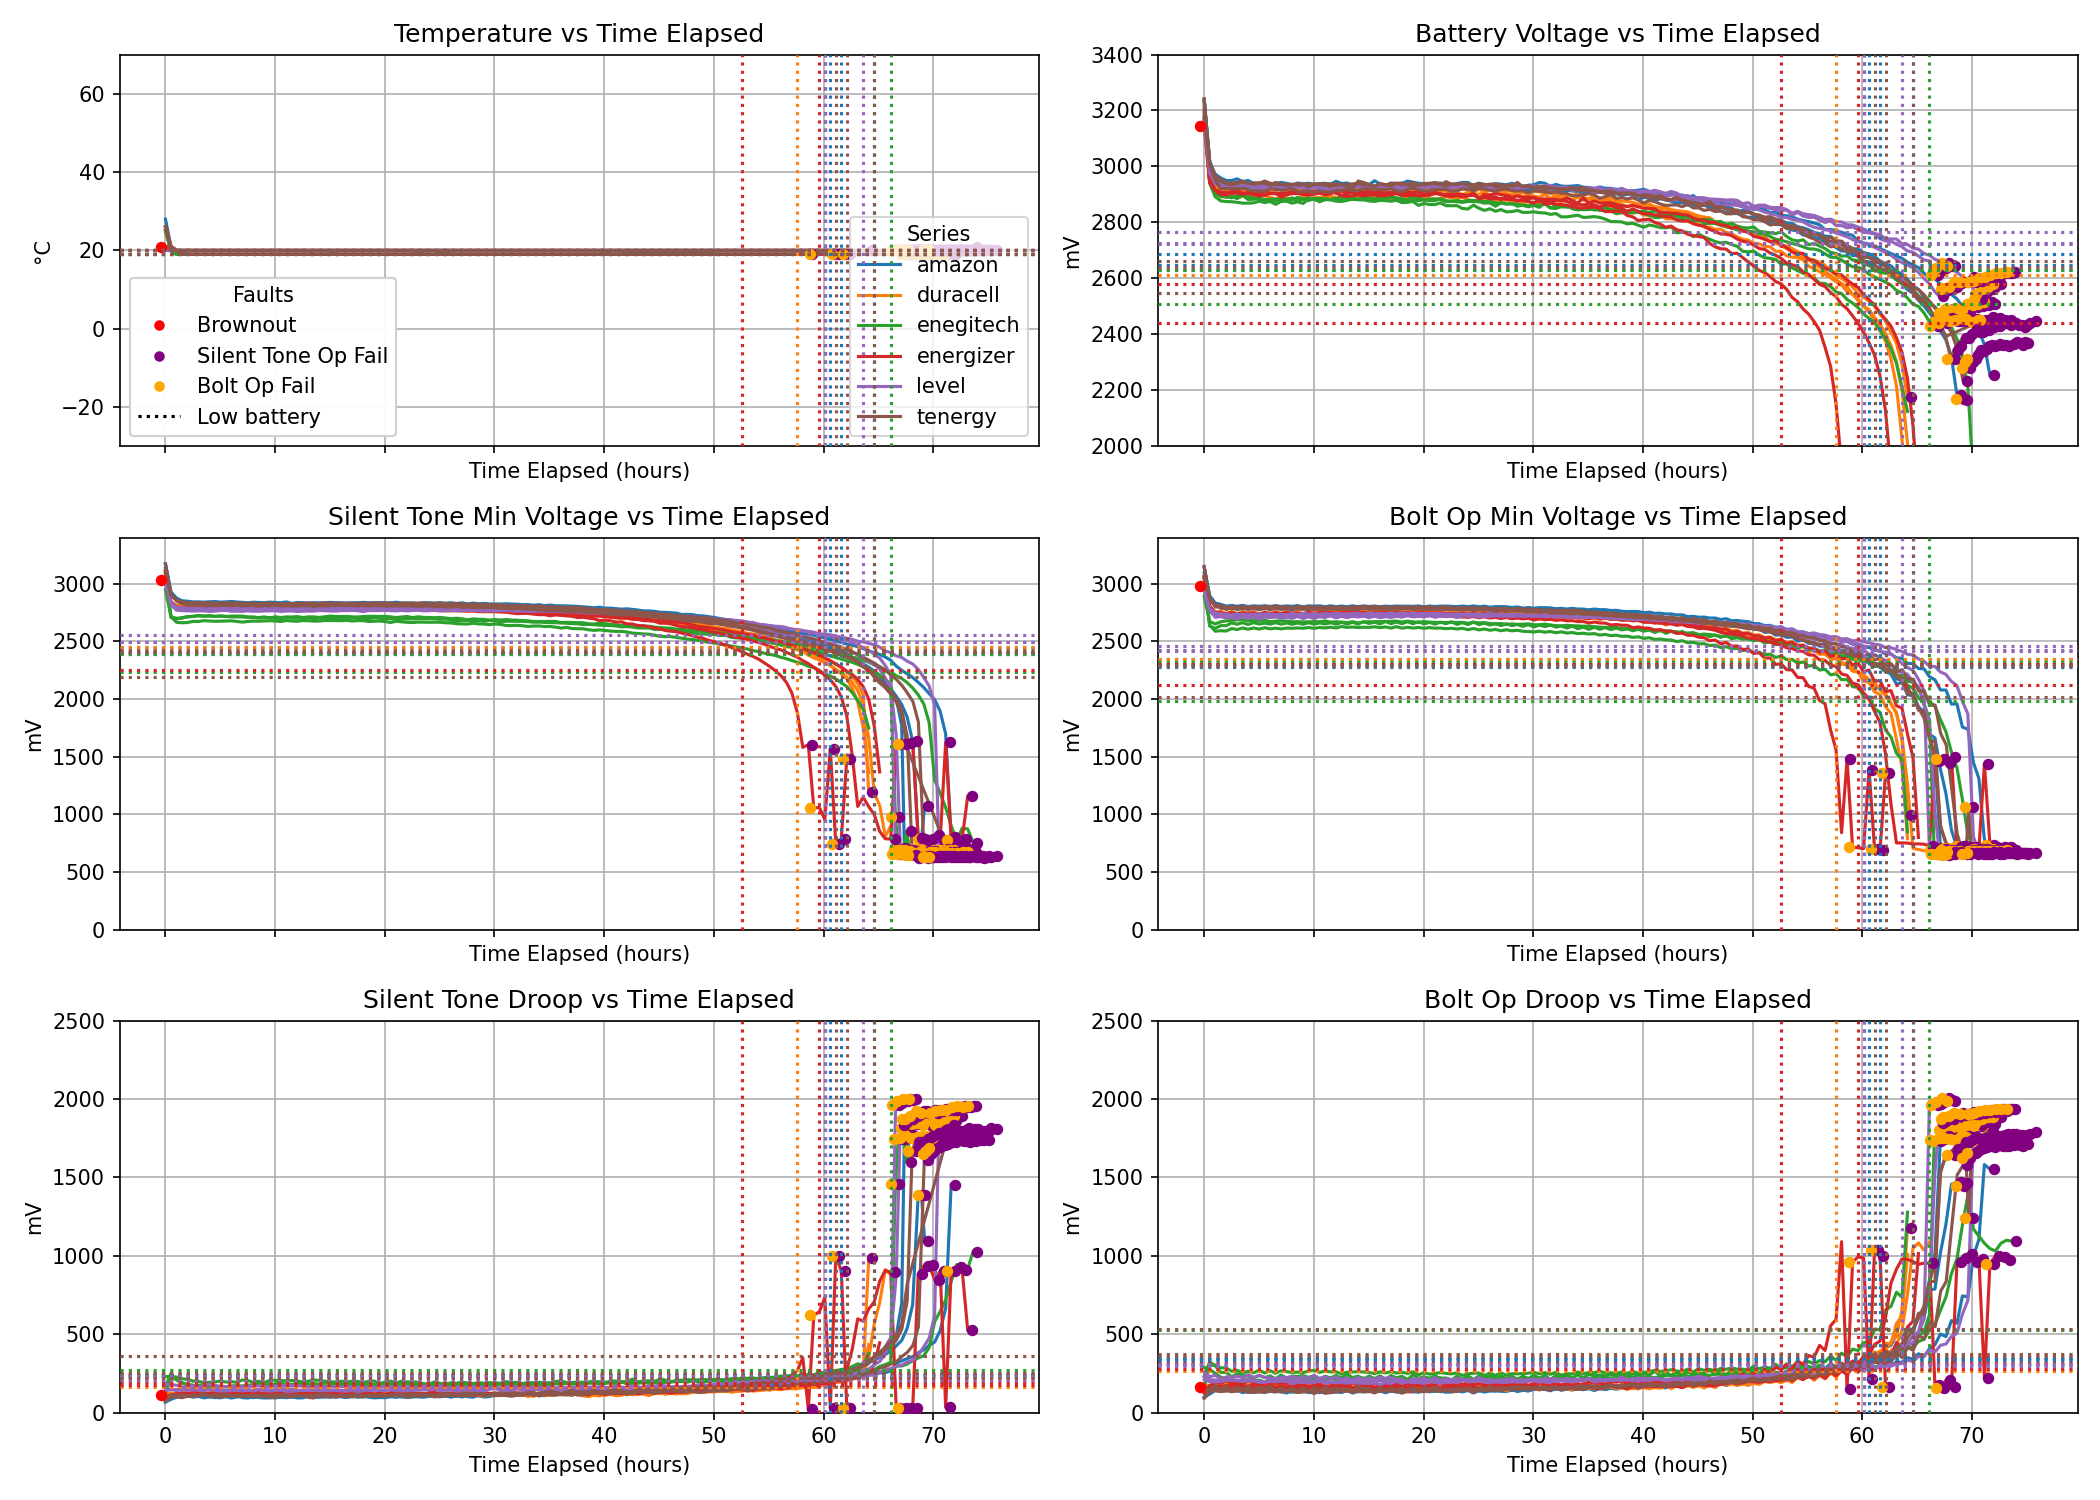
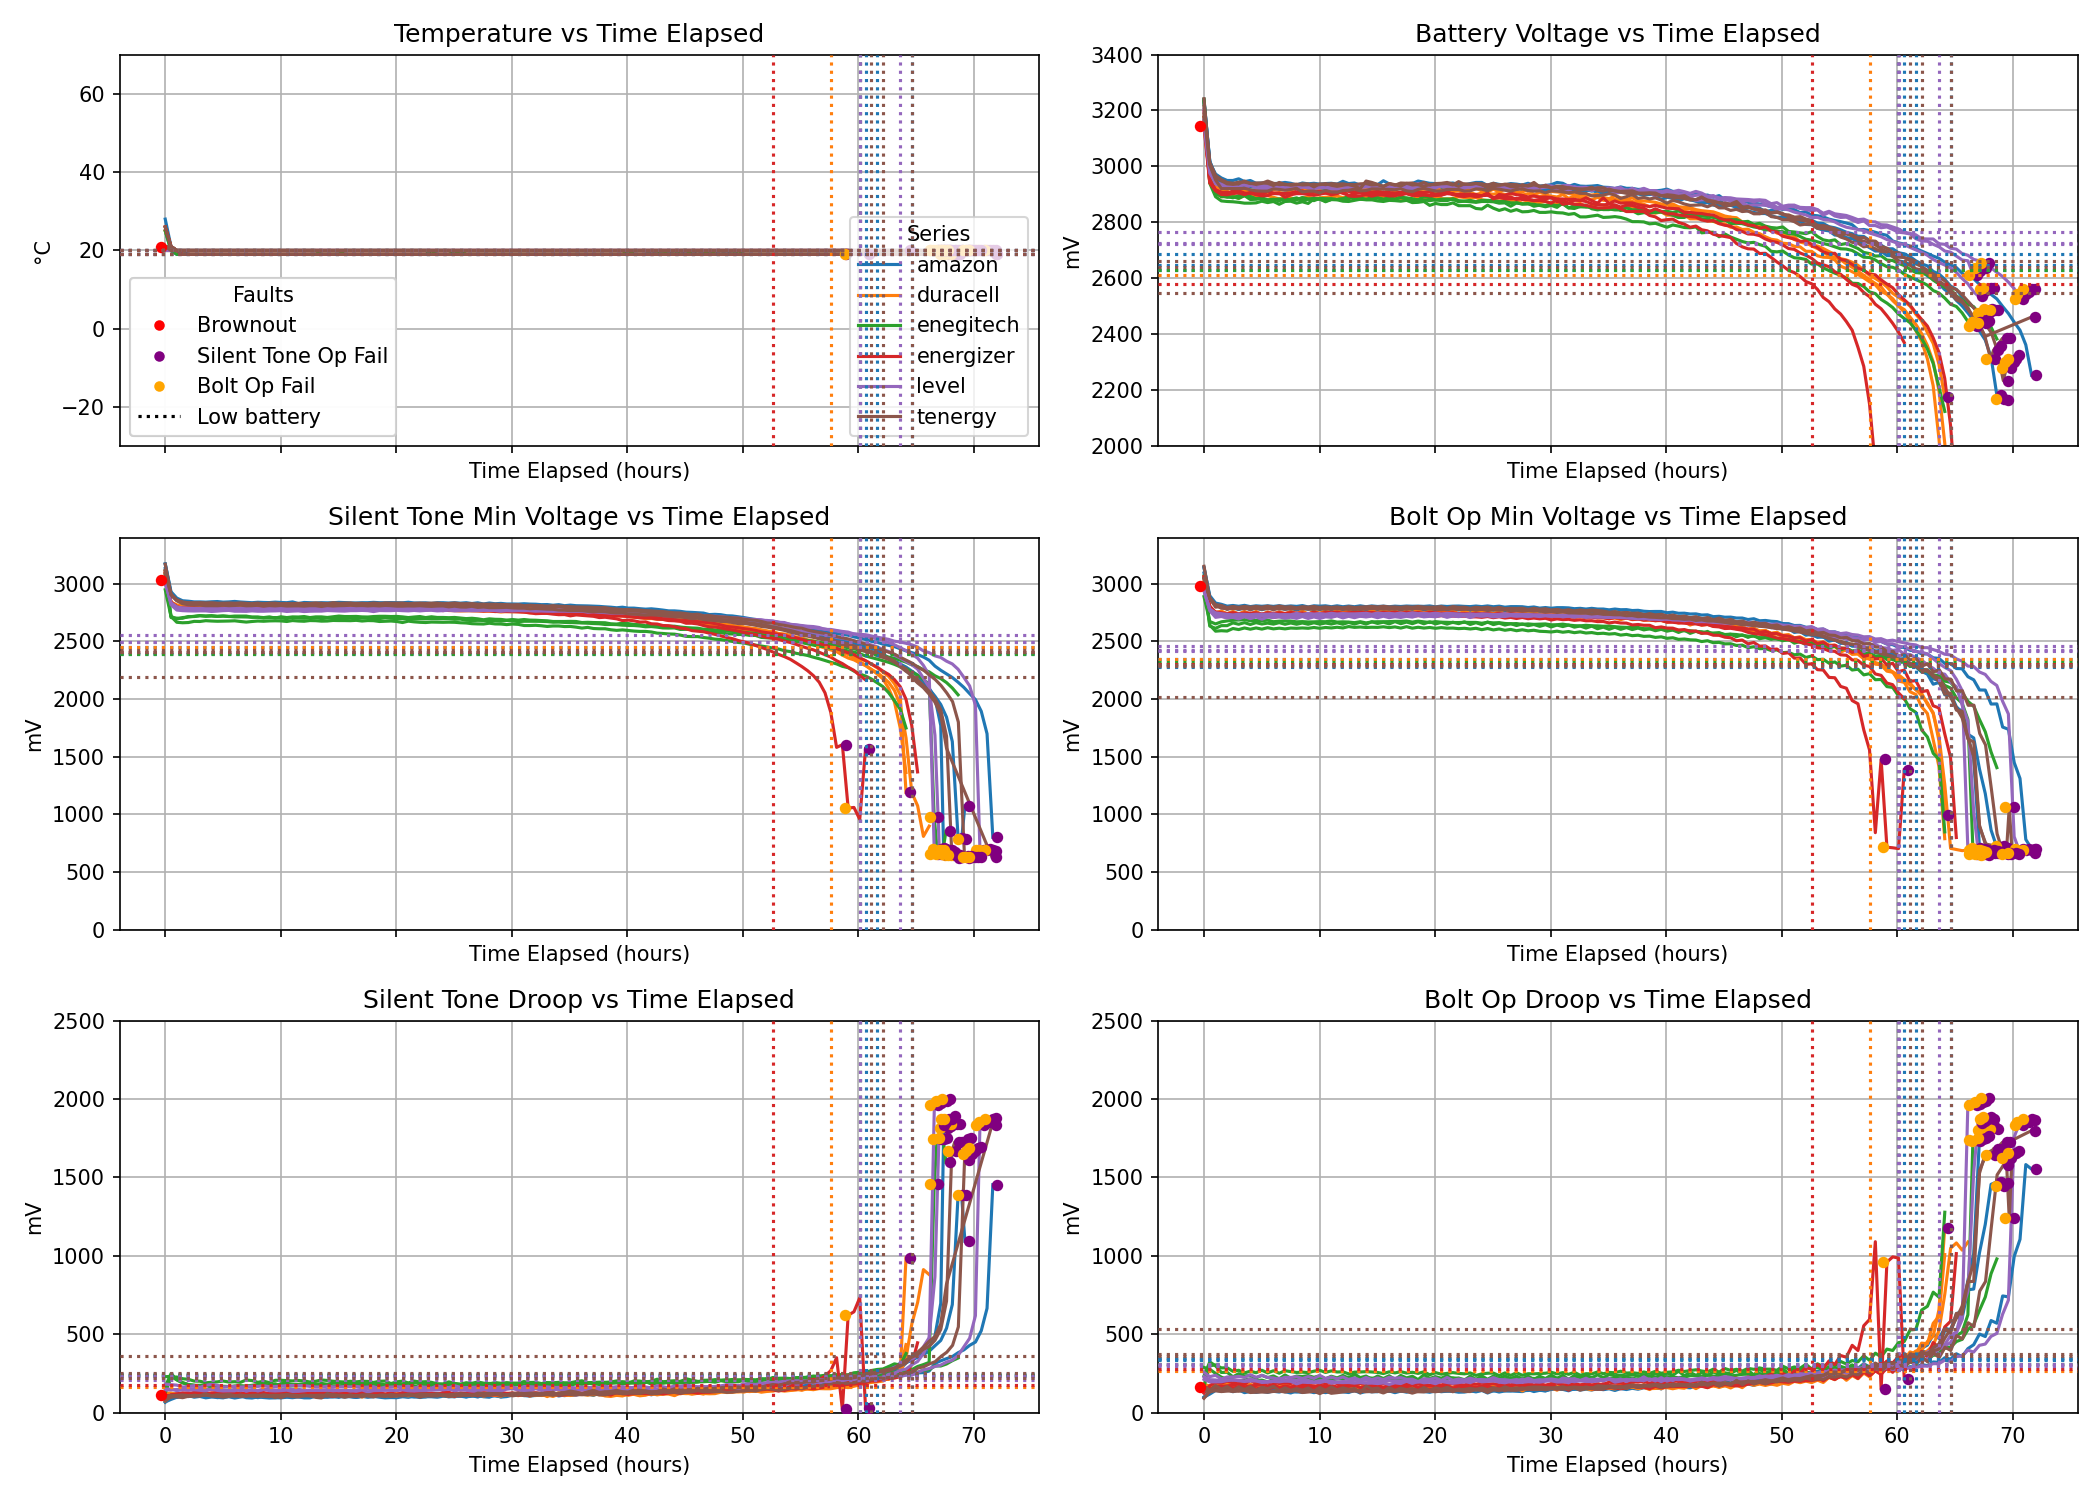
40c data update

diff --git a/plot_by_subfolder.py b/plot_by_subfolder.py
@@ -6,7 +6,7 @@ import numpy as np
 from matplotlib.lines import Line2D
 
 # CONFIGURATION
-CSV_DIR = "csvs/manufacturers-cross-temp/temp-m20c"
+CSV_DIR = "csvs/manufacturers-cross-temp/temp-40c"
 CSV_TAG = os.path.basename(os.path.normpath(CSV_DIR))
 PLOT_OUTPUT = f"plots/compare_all_{CSV_DIR.replace("/","-")}.png"
 COMPUTE_LOW_BATT_BY_ALL_FAULTS=True
@@ -106,18 +106,24 @@ for sf in subfolders:
         idx_low_batt = None
         if fault_cols:
             any_fault = df[fault_cols].any(axis=1)
+            n_rows = len(df)
+            min_idx = int(np.ceil(0.30 * n_rows))
+            any_fault.iloc[:min_idx] = False
             if any_fault.any():
-                # Ignore faults in the first 10% of the data
-                n_rows = len(df)
-                min_idx = int(np.ceil(0.30 * n_rows))
-                any_fault.iloc[:min_idx] = False
-                if any_fault.any():
-                    idx_first_fault = any_fault.idxmax()
-                    t0 = t_series.iloc[0]
-                    t_fault = t_series.loc[idx_first_fault]
-                    hours_to_fault = t_fault - t0
-                    t_target = t_fault - 0.10 * hours_to_fault
-                    idx_low_batt = (t_series - t_target).abs().idxmin()
+                idx_first_fault = any_fault.idxmax()
+                t0 = t_series.iloc[0]
+                t_fault = t_series.loc[idx_first_fault]
+                hours_to_fault = t_fault - t0
+                t_target = t_fault - 0.10 * hours_to_fault
+                idx_low_batt = (t_series - t_target).abs().idxmin()
+        else:
+            # No faults: use last index as first fault, and low batt 10% before
+            idx_first_fault = df.index[-1]
+            t0 = t_series.iloc[0]
+            t_fault = t_series.loc[idx_first_fault]
+            hours_to_fault = t_fault - t0
+            t_target = t_fault - 0.10 * hours_to_fault
+            idx_low_batt = (t_series - t_target).abs().idxmin()
                 
         # Trim data 5 indices after the first fault
         trim_idx = idx_first_fault + 5
